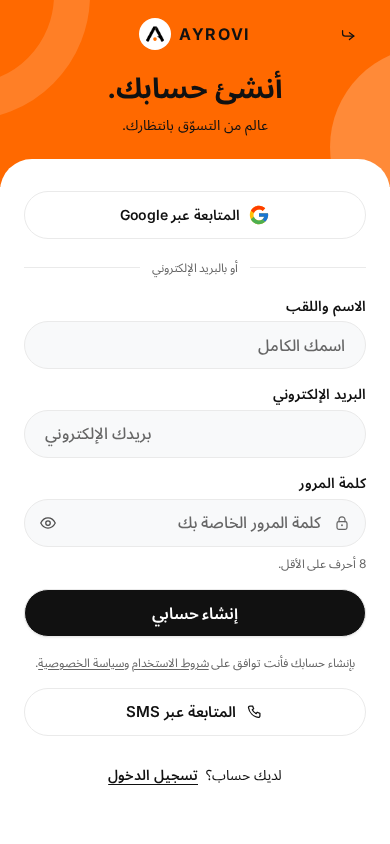
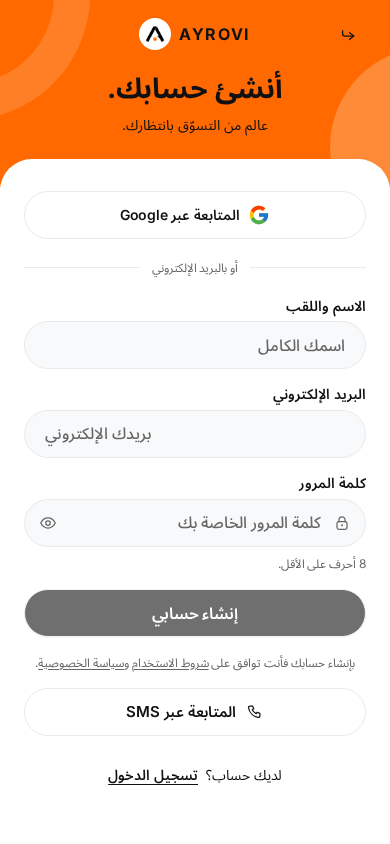
fix(auth): start sign-in and registration with manual empty credentials

Changed region(s): [[0.0615, 0.6777, 0.9538, 0.7701]]

diff --git a/client/src/components/CustomerAccountPage.tsx b/client/src/components/CustomerAccountPage.tsx
@@ -1,4 +1,4 @@
-import React, { useEffect, useMemo, useRef, useState } from 'react';
+import React, { useEffect, useLayoutEffect, useMemo, useRef, useState } from 'react';
 import { FcGoogle } from 'react-icons/fc';
 import { FaApple, FaFacebookF } from 'react-icons/fa6';
 import {
@@ -38,7 +38,8 @@ import { useLocale } from '../i18n/LocaleContext';
 import { CustomerPasswordRecovery } from './CustomerPasswordRecovery';
 import { AppHeader } from '../design/AppHeader';
 import { Button, buttonClasses } from '../design/Button';
-import { Field as FormField, Input } from '../design/ui/Field';
+import { Field as FormField } from '../design/ui/Field';
+import { ManualAuthInput } from '../design/ui/ManualAuthInput';
 
 /* ===== آفاتار حديث: صورة مرفوعة > آفاتار مولّد حسب الجنس ===== */
 type AvatarGender = 'female' | 'male';
@@ -208,6 +209,7 @@ export const CustomerAccountPage: React.FC<CustomerAccountPageProps> = ({
   const [emailAddress, setEmailAddress] = useState('');
   const [emailPassword, setEmailPassword] = useState('');
   const [emailName, setEmailName] = useState('');
+  const [authFormEpoch, setAuthFormEpoch] = useState(0);
   const [showPassword, setShowPassword] = useState(false);
   const [recoveryOpen, setRecoveryOpen] = useState(false);
   const [configError, setConfigError] = useState(false);
@@ -275,15 +277,23 @@ export const CustomerAccountPage: React.FC<CustomerAccountPageProps> = ({
     return () => { cancelled = true; };
   }, [isOpen, initialMessage, initialSection, configRetry]);
 
-  // Credentials are transient: never hydrate from a profile, storage or demo data.
-  // Browser-managed autofill remains available to the device owner.
-  useEffect(() => {
-    setEmailAddress('');
-    setEmailPassword('');
-    setEmailName('');
-    setShowPassword(false);
-    setRecoveryOpen(false);
-    setEmailMode('login');
+  // Never restore a previous identity. A fresh form also resets browser DOM state.
+  useLayoutEffect(() => {
+    const clearCredentials = () => {
+      setEmailAddress('');
+      setEmailPassword('');
+      setEmailName('');
+      setShowPassword(false);
+      setRecoveryOpen(false);
+      setEmailMode('login');
+      setAuthFormEpoch(epoch => epoch + 1);
+    };
+    clearCredentials();
+    const onPageShow = (event: PageTransitionEvent) => {
+      if (event.persisted) clearCredentials();
+    };
+    window.addEventListener('pageshow', onPageShow);
+    return () => window.removeEventListener('pageshow', onPageShow);
   }, [isOpen, session?.account.id]);
 
   useEffect(() => {
@@ -708,26 +718,26 @@ export const CustomerAccountPage: React.FC<CustomerAccountPageProps> = ({
               <section id="auth-email-panel" aria-labelledby="auth-title">
                 {error && <div id="auth-error" role="alert" className="ay-auth__message ay-auth__message--error">{error}</div>}
                 {notice && <div role="status" className="ay-auth__message">{notice}</div>}
-                <form onSubmit={submitEmailAuth} aria-busy={authBusy} aria-describedby={error ? 'auth-error' : undefined}>
+                <form key={`${emailMode}:${authFormEpoch}`} autoComplete="off" onSubmit={submitEmailAuth} aria-busy={authBusy} aria-describedby={error ? 'auth-error' : undefined}>
                   <fieldset disabled={authBusy} className="ay-auth__fields">
                     <legend className="sr-only">{emailMode === 'login' ? tr('Connexion par e-mail', 'الدخول بالبريد الإلكتروني') : tr('Créer un compte par e-mail', 'إنشاء حساب بالبريد الإلكتروني')}</legend>
                     {emailMode === 'register' && <FormField label={tr('Nom et prénom', 'الاسم واللقب')} htmlFor="auth-name">
-                      <Input id="auth-name" name="name" autoComplete="name" maxLength={100} value={emailName} onChange={(e) => setEmailName(e.target.value)} placeholder={tr('Votre nom complet', 'اسمك الكامل')} required />
+                      <ManualAuthInput id="auth-name" name="name" maxLength={100} value={emailName} onChange={(e) => setEmailName(e.target.value)} placeholder={tr('Votre nom complet', 'اسمك الكامل')} required />
                     </FormField>}
                     <FormField label={tr('Adresse e-mail', 'البريد الإلكتروني')} htmlFor="auth-email">
-                      <Input id="auth-email" name="email" type="email" inputMode="email" dir="ltr" autoCapitalize="none" spellCheck={false} autoComplete={emailMode === 'login' ? 'username' : 'email'} maxLength={180} value={emailAddress} onChange={(e) => setEmailAddress(e.target.value)} placeholder={tr('Votre adresse e-mail', 'بريدك الإلكتروني')} required />
+                      <ManualAuthInput id="auth-email" name="email" type="email" inputMode="email" dir="ltr" autoCapitalize="none" spellCheck={false} maxLength={180} value={emailAddress} onChange={(e) => setEmailAddress(e.target.value)} placeholder={tr('Votre adresse e-mail', 'بريدك الإلكتروني')} required />
                     </FormField>
                     <FormField label={tr('Mot de passe', 'كلمة المرور')} htmlFor="auth-password">
                       <div className="ay-auth__password">
                         <Lock className="ay-auth__lock h-5 w-5" aria-hidden />
-                        <Input id="auth-password" name="password" type={showPassword ? 'text' : 'password'} autoComplete={emailMode === 'login' ? 'current-password' : 'new-password'} minLength={8} maxLength={100} value={emailPassword} onChange={(e) => setEmailPassword(e.target.value)} placeholder={tr('Votre mot de passe', 'كلمة المرور الخاصة بك')} aria-describedby={emailMode === 'register' ? 'auth-password-hint' : undefined} required />
+                        <ManualAuthInput id="auth-password" name="password" type={showPassword ? 'text' : 'password'} minLength={8} maxLength={100} value={emailPassword} onChange={(e) => setEmailPassword(e.target.value)} placeholder={tr('Votre mot de passe', 'كلمة المرور الخاصة بك')} aria-describedby={emailMode === 'register' ? 'auth-password-hint' : undefined} required />
                         <button type="button" onClick={() => setShowPassword(!showPassword)} aria-controls="auth-password" aria-pressed={showPassword} aria-label={showPassword ? tr('Masquer le mot de passe', 'إخفاء كلمة المرور') : tr('Afficher le mot de passe', 'إظهار كلمة المرور')} className="ay-auth__password-toggle">
                           {showPassword ? <EyeOff className="h-5 w-5" aria-hidden /> : <Eye className="h-5 w-5" aria-hidden />}
                         </button>
                       </div>
                       {emailMode === 'register' && <p id="auth-password-hint" className="ay-auth__hint">{tr('Au moins 8 caractères.', '8 أحرف على الأقل.')}</p>}
                     </FormField>
-                    <Button type="submit" disabled={authBusy} className="ay-auth__submit">
+                    <Button type="submit" disabled={authBusy || !emailAddress.trim() || !emailPassword || (emailMode === 'register' && !emailName.trim())} className="ay-auth__submit">
                       {authBusy && <Loader2 className="h-5 w-5 animate-spin" aria-hidden />}
                       {authBusy ? tr('Veuillez patienter…', 'يرجى الانتظار…') : emailMode === 'login' ? tr('Se connecter', 'تسجيل الدخول') : tr('Créer mon compte', 'إنشاء حسابي')}
                     </Button>
@@ -750,6 +760,7 @@ export const CustomerAccountPage: React.FC<CustomerAccountPageProps> = ({
               <span>{emailMode === 'login' ? tr('Nouveau chez AYROVI ?', 'جديد في AYROVI؟') : tr('Déjà un compte ?', 'لديك حساب؟')}</span>
               <button type="button" disabled={authBusy} aria-controls="auth-email-panel" onClick={() => {
                 setEmailMode(emailMode === 'login' ? 'register' : 'login');
+                setEmailAddress(''); setEmailName('');
                 setEmailPassword(''); setShowPassword(false); setRecoveryOpen(false); setError(''); setNotice('');
                 document.getElementById('auth-title')?.focus();
               }}>{emailMode === 'login' ? tr('Créer un compte', 'إنشاء حساب') : tr('Se connecter', 'تسجيل الدخول')}</button>

diff --git a/verify/customer-auth-functional.ts b/verify/customer-auth-functional.ts
@@ -44,8 +44,11 @@ async function run() {
     await page.locator('#auth-email').waitFor();
     check(await page.locator('.ay-auth__provider').count()===0, 'unconfigured social providers hidden');
     await page.locator('.ay-auth__switch button').click();
+    await page.locator('#auth-name').click();
     await page.locator('#auth-name').fill('Client Test');
+    await page.locator('#auth-email').click();
     await page.locator('#auth-email').fill('functional@example.com');
+    await page.locator('#auth-password').click();
     await page.locator('#auth-password').fill('Original-password-1!');
     await page.locator('.ay-auth__submit').click();
     await page.getByRole('heading',{name:'Aperçu',exact:true}).waitFor();
@@ -89,11 +92,14 @@ async function run() {
     await page.screenshot({path:`${output}/success-fr.png`});
     await page.getByRole('button',{name:'Se connecter',exact:true}).click();
     await page.locator('#auth-email').waitFor();
+    await page.locator('#auth-email').click();
     await page.locator('#auth-email').fill('functional@example.com');
+    await page.locator('#auth-password').click();
     await page.locator('#auth-password').fill('Original-password-1!');
     await page.locator('.ay-auth__submit').click();
     await page.locator('#auth-error').waitFor();
     check((await page.locator('#auth-error').innerText()).includes('incorrect'),'old password rejected');
+    await page.locator('#auth-password').click();
     await page.locator('#auth-password').fill('Updated-password-2!');
     await page.locator('.ay-auth__submit').click();
     await page.getByRole('heading',{name:'Aperçu',exact:true}).waitFor();

diff --git a/client/src/design/ui/ManualAuthInput.tsx b/client/src/design/ui/ManualAuthInput.tsx
@@ -1,0 +1,32 @@
+import React, { useState } from 'react';
+import { Input, type InputProps } from './Field';
+
+/**
+ * Sign-in/sign-up policy: no saved identity before the visitor chooses a field.
+ * Initially read-only to discourage eager browser credential autofill; keyboard
+ * focus or a tap enables normal editing, paste and IME. No hidden dummy inputs,
+ * hard-coded account blacklist, polling, or clearing while the visitor is typing.
+ * Password-manager extensions may ignore browser hints; this is not a guarantee
+ * against extensions modifying the page after an explicit interaction.
+ */
+export function ManualAuthInput({ onFocus, onChange, value, ...props }: InputProps) {
+  const [editing, setEditing] = useState(false);
+  return <Input
+    {...props}
+    value={value}
+    autoComplete="off"
+    readOnly={!editing}
+    data-lpignore="true"
+    data-1p-ignore="true"
+    onFocus={(event) => {
+      // Remove a browser-restored DOM value before accepting manual input.
+      if (!editing) event.currentTarget.value = String(value ?? '');
+      setEditing(true);
+      onFocus?.(event);
+    }}
+    onChange={(event) => {
+      if (!editing) { event.currentTarget.value = String(value ?? ''); return; }
+      onChange?.(event);
+    }}
+  />;
+}

diff --git a/client/src/styles/customer-auth.css b/client/src/styles/customer-auth.css
@@ -90,3 +90,6 @@
 .ay-auth__recovery { display: flex; flex-direction: column; gap: var(--ayrovi-space-5); }
 .ay-auth__explanation { color: var(--ayrovi-text-secondary); font-size: var(--text-small); line-height: 1.7; }
 .ay-auth__recovery .ay-auth__message + form { margin-block-start: 0; }
+
+/* Read-only-until-focus prevents eager saved-credential fill, not manual editing. */
+.ay-auth__fields input[readonly] { cursor: text; opacity: 1; }

diff --git a/docs/AUTH_EMPTY_FIELDS_FIX_AR.md b/docs/AUTH_EMPTY_FIELDS_FIX_AR.md
@@ -1,0 +1,24 @@
+# منع عرض هوية محفوظة في نموذج الدخول والتسجيل
+
+## الفحص
+- فُحص الموقع المنشور في سياقين جديدين على Chromium وFirefox دون ملفات تعريف أو جلسات محفوظة.
+- كان البريد وكلمة المرور فارغين في الدخول، وكذلك البريد والاسم في التسجيل.
+- لم يظهر البريد الذي أبلغ عنه المستخدم في الكود المتتبع أو ملفات JavaScript المحمّلة من الموقع.
+- لم يُحذف أي حساب أو سجل من قاعدة البيانات؛ التصحيح يخص تعبئة الواجهة فقط.
+
+## التغيير
+- `autocomplete=off` للنموذج وحقول الدخول والتسجيل.
+- المكوّن `ManualAuthInput` يبقي الحقل محميًا من التعبئة المبكرة إلى حين تركيزه باللمس أو لوحة المفاتيح، ثم يسمح بالكتابة واللصق المعتادين.
+- مسح البريد والاسم وكلمة المرور عند التبديل بين الدخول والتسجيل.
+- إعادة إنشاء النموذج عند فتحه/تغير الجلسة وعند استعادة صفحة من ذاكرة الرجوع والتقدم.
+- منع إرسال نموذج فارغ؛ لا توجد حقول مزيفة ولا عنوان بريد محظور مخفي داخل الكود.
+- لا مسح دوري يعطل كتابة المستخدم، ولا تعديل لإعدادات البريد/Resend أو وظائف الاسترجاع.
+
+## التحقق
+- البناء وفحص الأنواع ناجحان.
+- 762 اختبارًا للمشروع ناجحة.
+- 208 تحققات متصفح على Chromium وFirefox، تشمل محاكاة تعبئة غير مطلوبة، فتح الحقل بلوحة المفاتيح، حفظ كتابة المستخدم أثناء التفاعل، تنظيف التبديل واستعادة الصفحة.
+- 23 تحققًا لدورة الحساب والاسترجاع مع API/SQLite فعليين ونقل بريد خارجي محاكى، كلها ناجحة.
+
+## حدود مهمة
+الاختبار لا يثبت سلوك كل مدير كلمات مرور على جهاز حقيقي. بعض الإضافات تستطيع تجاهل خصائص HTML وتعديل الحقل بعد تفاعل المستخدم. إن عاد البريد بعد نشر التصحيح، يلزم تحديد المتصفح/الإضافة وفحص بيانات الدخول المحفوظة على الجهاز، لا حذف حساب العميل من قاعدة بيانات AYROVI.

diff --git a/docs/DESIGN_SYSTEM.md b/docs/DESIGN_SYSTEM.md
@@ -268,10 +268,16 @@ modification des règles de la vitrine et ne justifie pas de recolorer les autre
 - Composants canoniques : `design/Button.tsx`, `design/ui/Field.tsx` (`Field`, `Input`).
 - Labels reliés aux IDs ; contrôle afficher/masquer nommé selon son état ; erreurs
   `role=alert`, chargement `role=status`, soumission bloquée pendant le traitement.
-- Réduction du mouvement respectée. Ne pas empêcher le gestionnaire de mots de passe.
+- Réduction du mouvement respectée.
+- Politique demandée pour connexion/inscription : saisie manuelle par défaut. Formulaire
+  et champs `autocomplete=off`, champs protégés jusqu’au focus (clavier ou toucher),
+  sans faux champs cachés ni blacklist d’adresse. La saisie et le collage restent possibles.
+  Les extensions peuvent ignorer les indications du navigateur ; ne pas promettre un
+  blocage universel des gestionnaires de mots de passe.
 - Les identifiants ne viennent jamais de données démo, du profil précédent ou du
   stockage local. Nettoyage à la fermeture et au changement de session ; mot de passe
-  masqué et vidé au changement de mode.
+  masqué et vidé au changement de mode, ainsi que le nom et l’e-mail. La restauration
+  depuis le cache de navigation (`pageshow.persisted`) recrée un formulaire vierge.
 - Les boutons OAuth/SMS n’existent que si l’API auth les annonce disponibles.
 - Aucune fausse promesse fonctionnelle : « Mot de passe oublié ? » montre actuellement
   un vrai formulaire de récupération lorsque le mailer est configuré. Sans configuration,

diff --git a/docs/AUTH_EMAIL_SETUP_AR.md b/docs/AUTH_EMAIL_SETUP_AR.md
@@ -128,7 +128,7 @@ node .cache/auth-functional.cjs
 - نجح التحقق من الأنواع والبناء، و762 اختبارًا في 61 ملفًا.
 - اختبارات وحدة وتكامل للترحيب والاسترجاع، التشفير، انتهاء الصلاحية، منع إعادة الاستعمال، إغلاق الجلسات، تغيير البريد/حظر الحساب، رفض مصدر خارجي، حدود الطلبات، وفشل/إعادة محاولة البريد.
 - اختبارات عقود إرسال للمزوّدين الثلاثة، مع محاكاة HTTP؛ لم تُستخدم مفاتيح فعلية.
-- 180 تحققًا لواجهة الهاتف على Chromium وFirefox.
+- 208 تحققًا لواجهة الهاتف على Chromium وFirefox.
 - 23 تحققًا إضافيًا لدورة تسجيل → ترحيب → خروج → طلب استرجاع → تغيير → دخول جديد، عبر قاعدة بيانات وواجهات API فعلية مع محاكاة خدمة البريد الخارجية فقط.
 - اللقطات الجديدة في `screenshots/auth-functional/`، ولا تعني أن المزوّد معدّ في بيئة المعاينة.
 
